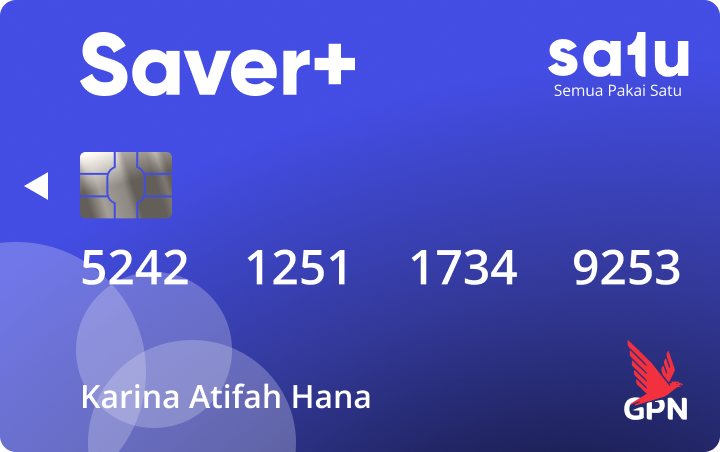
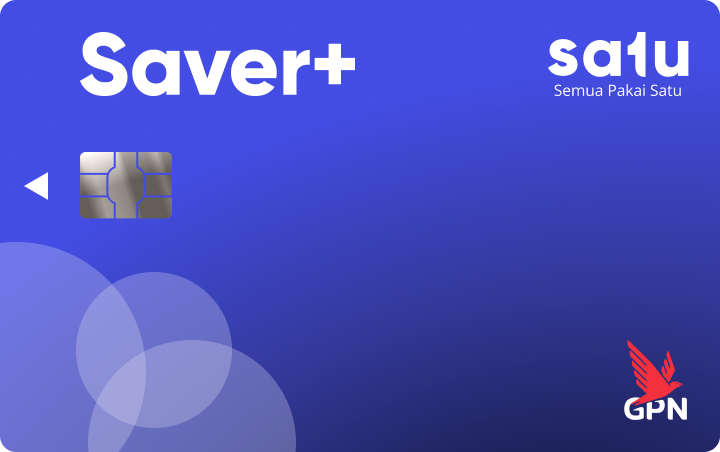
feat: saving - update card with data account

diff --git a/src/components/userPortal/Savings.jsx b/src/components/userPortal/Savings.jsx
@@ -37,28 +37,29 @@ export default function Savings() {
   const { userInfo } = useAuth();
   const [selectOption, setSelectOption] = useState(false);
   const [monthsFilter, setMonthsFilter] = useState(0);
-  const [graphData, setGraphData] = useState([])
-  const [totalDebit, setTotalDebit] = useState()
-  const [totalCredit, setTotalCredit] = useState()
+  const [graphData, setGraphData] = useState([]);
+  const [totalDebit, setTotalDebit] = useState();
+  const [totalCredit, setTotalCredit] = useState();
 
-  useEffect(() => { 
-    const graphData = DummyData.getPeriodiclyTransaction((selectOption === false) ? 0 : selectOption)
+  useEffect(() => {
+    const graphData = DummyData.getPeriodiclyTransaction(
+      selectOption === false ? 0 : selectOption
+    );
     setGraphData(graphData);
 
-    const totalDebit = graphData.reduce((prev, curr) => { 
+    const totalDebit = graphData.reduce((prev, curr) => {
       prev += curr.debit;
-      return prev; 
-    }, 0)
+      return prev;
+    }, 0);
 
-    const totalCredit = graphData.reduce((prev, curr) => { 
+    const totalCredit = graphData.reduce((prev, curr) => {
       prev += curr.kredit;
-      return prev; 
-    }, 0)
+      return prev;
+    }, 0);
 
     setTotalDebit(totalDebit);
     setTotalCredit(totalCredit);
-
-  }, [selectOption])
+  }, [selectOption]);
 
   useEffect(() => {
     if (userInfo) {
@@ -72,15 +73,21 @@ export default function Savings() {
             expiredDateMonth,
             expiredDateYear,
             balance,
+            name
           },
         ],
       } = userInfo;
+
+      const formatCardNumberToString = cardNumber.toString();
+      const replaceCardNumber = formatCardNumberToString.replace(/(.{4})/g, "$1 ");
 
       const newRekening = {
         accountType: jenisRekening.toLowerCase(),
         userName,
         balance,
+        replaceCardNumber,
         cardNumber,
+        name,
         accountNumber: rekeningNumber,
         expirationDate: `${expiredDateMonth}/${expiredDateYear}`,
         status: true,
@@ -195,12 +202,20 @@ export default function Savings() {
       <div className="grid grid-cols-12 gap-6">
         <div className="col-span-4 rounded-xl">
           <div className="grid gap-6">
-            <img
-              src={`/images/${selectedSavings["accountType"]}-card.png`}
-              // src={`/images/${selectedSavings["accountType"].toLowerCase()}-card.png`}
-              alt="Savings Card"
-              className="object-contain"
-            />
+            <div className="w-full">
+              <p className="relative top-[62%] left-10 text-xl text-white">
+                {selectedSavings.replaceCardNumber}
+              </p>
+              <p className="relative top-[73%] left-10 text-xl text-white ">
+                {selectedSavings.name}
+              </p>
+              <img
+                src={`/images/${selectedSavings["accountType"]}-card.png`}
+                // src={`/images/${selectedSavings["accountType"].toLowerCase()}-card.png`}
+                alt="Savings Card"
+                className="object-contain"
+              />
+            </div>
             <div className="bg-white rounded-xl p-5 font-bold">
               <p className="py-3">Saldo Akhir</p>
               <p className="flex items-start py-1">
